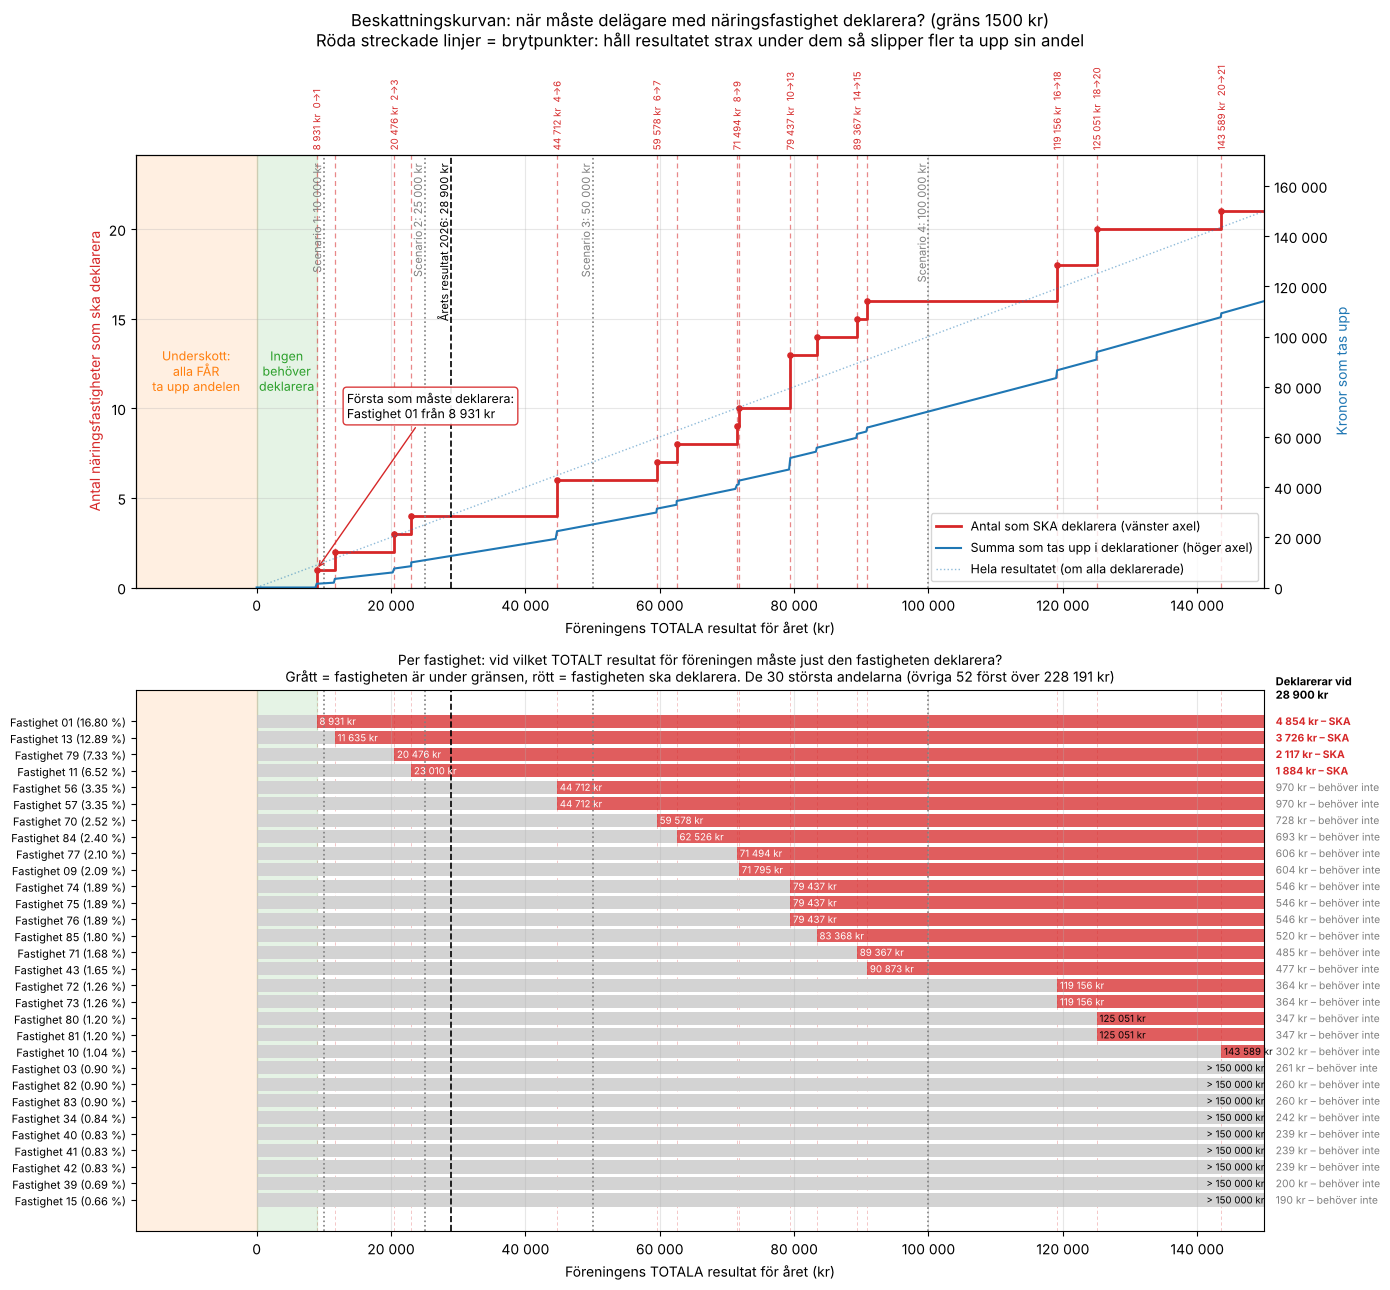
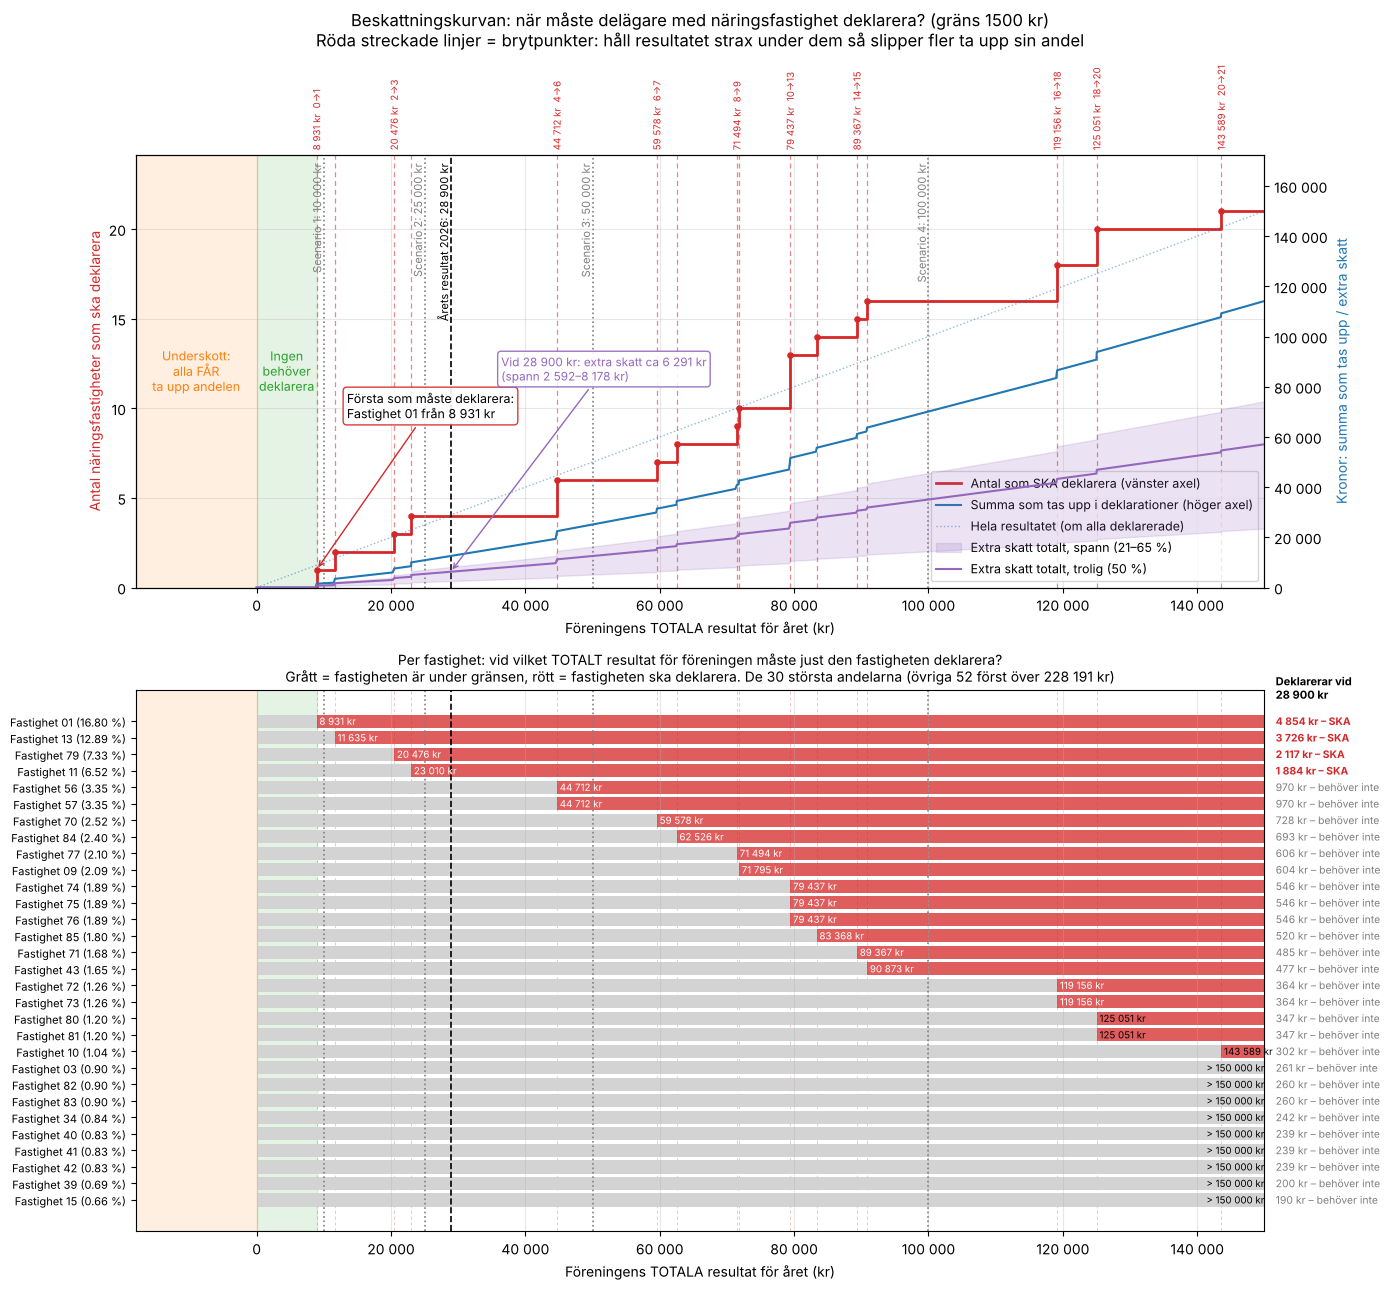
Skattespann i kurvan, endast JupyterLite, utan ipywidgets
- Beskattningskurvan visar total extra skatt för medlemmarna per
  resultatnivå som ett spann (låg–hög) och trolig linje, med belopp vid
  årets resultat.
- Binder och Colab borttagna; JupyterLite på GitHub Pages är sättet att köra
  i webbläsaren, länkat högst upp i README.
- Reglaget och ipywidgets borttagna.

Claude-Session: https://claude.ai/code/session_01WDYU7EJZWkpr2StVH9EL7E

Changed region(s): [[0.2475, 0.3101, 0.9281, 0.4651], [0.959, 0.186, 0.9899, 0.3411], [0.3403, 0.2791, 0.495, 0.3101]]

diff --git a/README.md b/README.md
@@ -12,6 +12,8 @@ beskattningskurva när delägarna behöver deklarera.
 > [Skatteverket](https://www.skatteverket.se) för aktuella skatteregler.** Varje
 > delägare ansvarar själv för sin deklaration.
 
+**▶ Kör verktyget direkt i webbläsaren:** <https://huggek.github.io/beskattningFVOF/lab/index.html?path=beskattning.ipynb>
+
 ## Kort om hur det fungerar
 
 Föreningen betalar ingen inkomstskatt själv. I stället äger varje delägarfastighet
@@ -66,7 +68,10 @@ fiskekort.
 ![Beskattningskurvan med exempeldata (resultat 28 900 kr)](docs/beskattningskurva.png)
 
 - **Övre diagrammet:** den röda trappan visar hur många som *ska* deklarera vid ett
-  visst resultat. Den blå linjen visar hur mycket som tas upp totalt.
+  visst resultat. Den blå linjen visar hur mycket som tas upp totalt. Det **lila
+  fältet** visar den uppskattade **extra skatten totalt för medlemmarna** vid varje
+  resultatnivå, som ett spann från låg till hög skattesats. Den lila linjen är den
+  troliga nivån. Vid årets resultat skrivs beloppet ut.
   - I det **gröna fältet** behöver ingen deklarera. I exempelbilden gäller det så
     länge resultatet är under 8 931 kr. Gränsen styrs av den största andelen.
   - I det **orange fältet** har föreningen underskott, och alla med näringsfastighet
@@ -85,7 +90,6 @@ fiskekort.
   mycket varje fastighet skulle deklarera vid årets resultat** (andel × resultat)
   och om den måste.
 - **Scenarier:** i notebooken jämför du egna resultat med listan `SCENARIER`.
-  Där finns också ett **reglage** för att prova olika resultat (kräver `ipywidgets`).
 - **I utskicket** får varje fastighet kolumnen `naring_deklarera_fran_resultat`.
   Den visar från vilket resultat för föreningen ägaren måste deklarera.
 
@@ -187,15 +191,13 @@ fastigheten hamnar över eller under gränsen. Det som påverkar är fastigheten
 **typ** (se ovan) och föreningens resultat. Den som ändå deklarerar andelen tar
 upp den i sin näringsverksamhet tillsammans med sina egna intäkter och kostnader.
 
-Kräver Python 3 och `matplotlib`. `ipywidgets` behövs bara för reglaget
-(`pip install -r requirements.txt`).
+Lokalt kräver notebooken Python 3 och `matplotlib` (`pip install -r requirements.txt`).
 
 ### Kör i webbläsaren utan installation
 
 [![JupyterLite](https://jupyterlite.rtfd.io/en/latest/_static/badge.svg)](https://huggek.github.io/beskattningFVOF/lab/index.html?path=beskattning.ipynb)
-[![Binder](https://mybinder.org/badge_logo.svg)](https://mybinder.org/v2/gh/HuggeK/beskattningFVOF/HEAD?labpath=beskattning.ipynb)
 
-- **JupyterLite** (rekommenderas) kör hela notebooken i webbläsaren och startar på
+- **JupyterLite på GitHub Pages** kör hela notebooken i webbläsaren och startar på
   några sekunder: **<https://huggek.github.io/beskattningFVOF/lab/index.html?path=beskattning.ipynb>**.
   Inget körs på någon server, och era siffror stannar i webbläsaren. Byt ut
   `data/andelar.csv` genom att dra in er egen matrikel i filbläddraren till vänster,
@@ -203,13 +205,6 @@ Kräver Python 3 och `matplotlib`. `ipywidgets` behövs bara för reglaget
   Ladda ner `utdata/` (högerklicka → *Download*) när du är klar. Sidan byggs
   automatiskt av GitHub Actions (`.github/workflows/jupyterlite.yml`) vid varje
   ändring på `main`.
-- **Binder** (mybinder.org) startar notebooken i webbläsaren direkt från GitHub.
-  Klicka på knappen ovan. Första starten kan ta några minuter. Ladda upp er egen
-  matrikel som `data/andelar.csv`, fyll i `BOKSLUT` och kör alla celler. Ändringar
-  sparas **inte**, så ladda ner `utdata/` innan du stänger. För en annan förening:
-  forka repot och byt `HuggeK/beskattningFVOF` i länken.
-- **Google Colab** kan också öppna notebooken från GitHub, men kräver ett
-  Google-konto.
 
 **Moms:** ta beloppen direkt från resultaträkningen. Där är de redan rätt. Hos en
 momsregistrerad förening är de utan moms. Hos en förening som inte är
